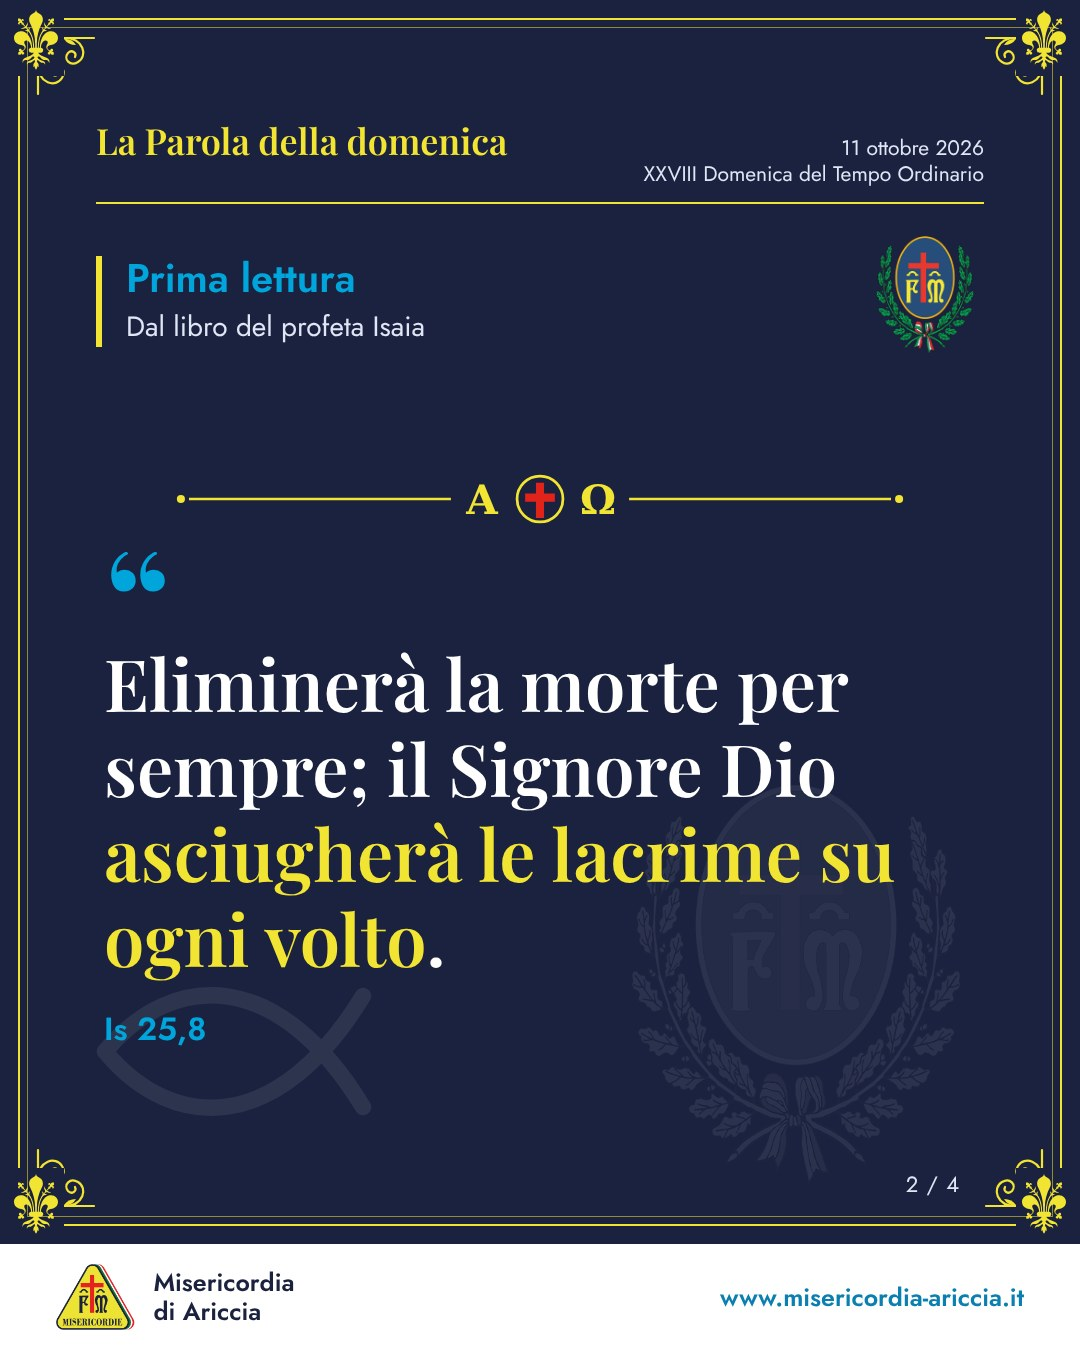
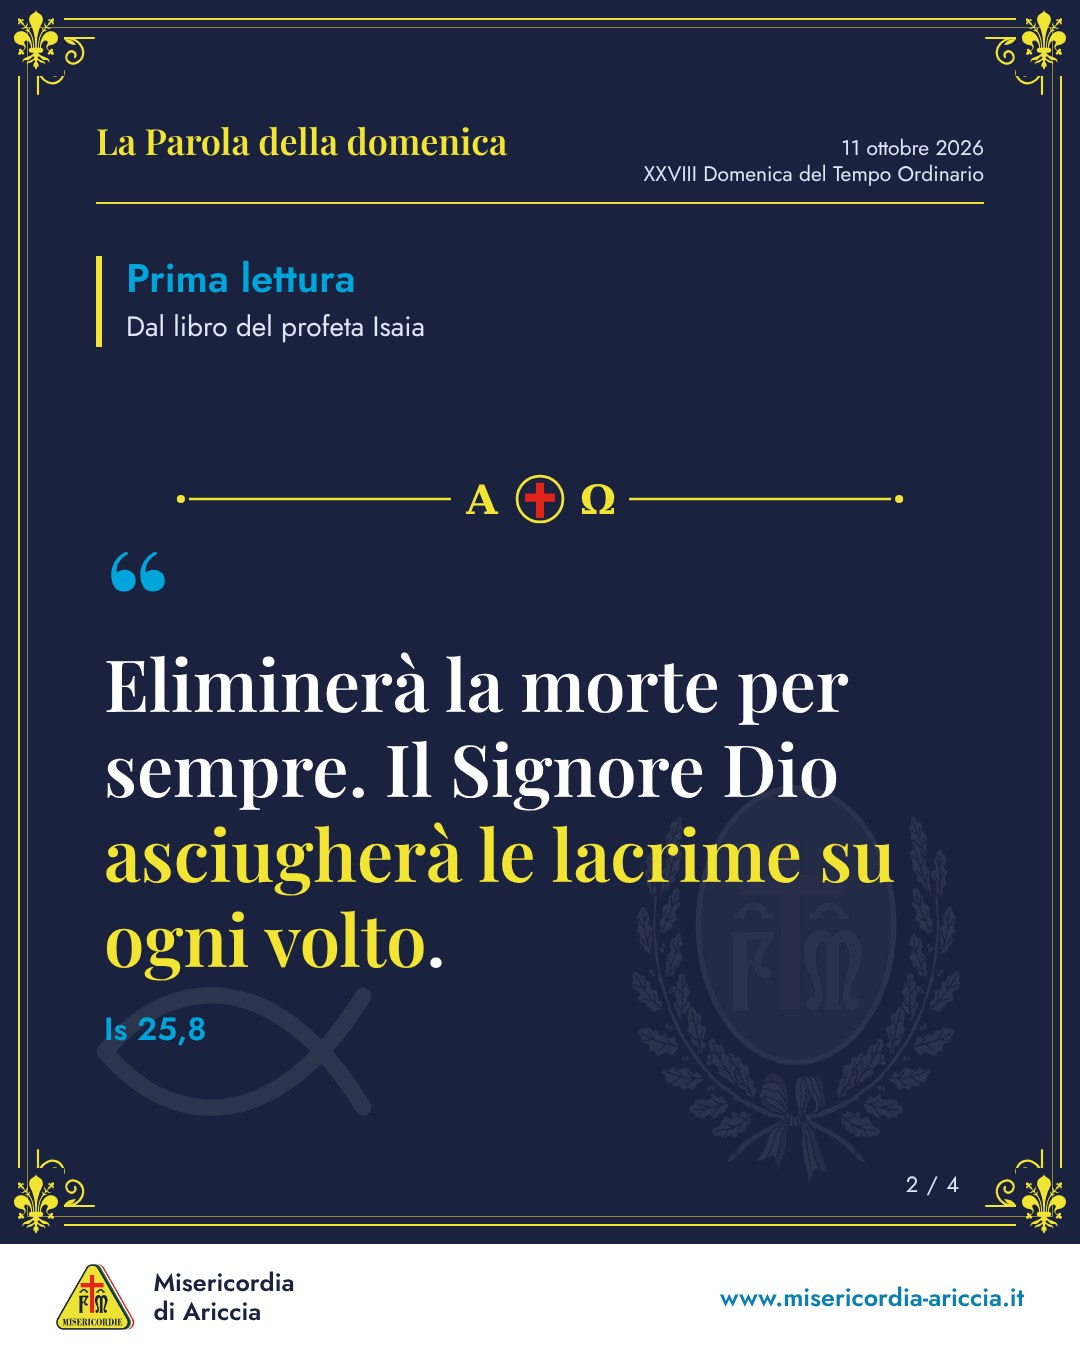
Parola della domenica: testo CEI 2008, rimando alla Liturgia del giorno, via lo stemma doppio
- letture.py prende il testo CEI 2008 (chiesacattolica.it), quello letto a
  Messa; Evangelizo (CEI 1974) solo per contare i versetti o come riserva
- Is 25,8 corretto sul testo CEI 2008
- ultima pagina e testo del post rimandano alle letture sul nostro sito
- tolto lo stemma piccolo accanto alla lettura (resta in filigrana)

Claude-Session: https://claude.ai/code/session_01XkVF3vbwttP8HoAxNwucGA

Changed region(s): [[0.7944, 0.1556, 0.9167, 0.28], [0.3667, 0.5289, 0.6417, 0.5911], [0.6722, 0.56, 0.7944, 0.5911]]

diff --git a/scripts/parola-domenica/grafica.html b/scripts/parola-domenica/grafica.html
@@ -25,9 +25,11 @@ body{width:1080px;height:1350px;background:var(--navy);color:#fff;font-family:Jo
 .illustra b{color:var(--ciano);font-weight:600}
 .credito{margin-top:8px;font-size:19px;color:#b9c3dc;line-height:1.35}
 .credito i{font-style:italic}
+.rimando{position:absolute;left:132px;right:200px;bottom:52px;font-size:24px;line-height:1.3;color:var(--giallo)}
+.rimando b{font-weight:600}
 .scorri{position:absolute;left:120px;bottom:40px;font-size:25px;font-weight:600;color:var(--giallo)}
 /* pagina del versetto */
-.lettura{margin-top:52px;margin-right:150px;border-left:6px solid var(--giallo);padding-left:24px}
+.lettura{margin-top:52px;border-left:6px solid var(--giallo);padding-left:24px}
 .lettura .nome{font-size:40px;font-weight:600;color:var(--ciano);line-height:1.1}
 .lettura .libro{margin-top:6px;font-size:28px;color:var(--chiaro)}
 .parola{position:absolute;left:104px;right:104px;top:400px;bottom:120px;display:flex;flex-direction:column;justify-content:center}
@@ -115,7 +117,6 @@ body{width:1080px;height:1350px;background:var(--navy);color:#fff;font-family:Jo
 <section class="pagina" id="pagina" hidden>
   <svg class="filigrana pesce-f"><use href="#pesce"/></svg>
   <img class="filigrana stemma-f" src="../../static/img/loghi/mise-fregio.png" alt="">
-  <img class="stemma" src="../../static/img/loghi/mise-fregio.png" alt="">
   <div class="testa"><div class="rubrica">La Parola della domenica</div><div class="giorno" id="p-giorno"></div></div>
   <div class="lettura"><div class="nome" id="p-nome"></div><div class="libro" id="p-libro"></div></div>
   <div class="parola">
@@ -124,6 +125,7 @@ body{width:1080px;height:1350px;background:var(--navy);color:#fff;font-family:Jo
     <div class="versetto" id="p-versetto"></div>
     <div class="rif" id="p-rif"></div>
   </div>
+  <div class="rimando" id="p-rimando" hidden>Tutte le letture di oggi sul nostro sito:<br><b>misericordia-ariccia.it/liturgia-del-giorno</b></div>
   <div class="numero" id="p-numero"></div>
 </section>
 <div class="piede">
@@ -145,7 +147,7 @@ const stringi = (box, el, minimo) => {  // il testo si rimpicciolisce finché st
 const sovrapposizioni = () => {
   const testi = [], grafica = [];
   const vis = el => el.offsetParent !== null || getComputedStyle(el).position === 'fixed';
-  document.querySelectorAll('.titolo,.sotto,.illustra,.credito,.scorri,.numero,.rubrica,.giorno,.lettura,.versetto,.rif,.sito,.marchio').forEach(el => {
+  document.querySelectorAll('.titolo,.sotto,.illustra,.credito,.scorri,.rimando,.numero,.rubrica,.giorno,.lettura,.versetto,.rif,.sito,.marchio').forEach(el => {
     if (!vis(el)) return;
     const w = document.createTreeWalker(el, NodeFilter.SHOW_TEXT);
     while (w.nextNode()) { if (!w.currentNode.textContent.trim()) continue;
@@ -190,6 +192,7 @@ window.versetto = async (s, i, n, primo) => {
   $('p-versetto').innerHTML = t;
   $('p-rif').textContent = v.riferimento;
   $('p-numero').textContent = `${primo + i} / ${n}`;
+  if (primo + i === n) $('p-rimando').hidden = false;  // ultima pagina: rimando alla Liturgia del giorno del sito
   await document.fonts.ready;
   const esito = stringi(document.querySelector('.parola'), $('p-versetto'), 40);
   return { ...esito, sovrapposizioni: sovrapposizioni() };

diff --git a/scripts/parola-domenica/letture.py b/scripts/parola-domenica/letture.py
@@ -1,12 +1,16 @@
 #!/usr/bin/env python3
-"""Scarica le letture di una domenica (o di un giorno) da Evangelizo, la stessa fonte
-della pagina Liturgia del giorno del sito.
+"""Scarica le letture di una domenica (o di un giorno).
+
+Testo da usare: CEI 2008, quello letto a Messa, dal sito ufficiale della CEI
+(chiesacattolica.it/liturgia-del-giorno). Evangelizo (la fonte della pagina Liturgia del
+giorno del sito) usa ancora la traduzione CEI 1974: serve solo per i numeri dei versetti
+e come riserva se la pagina CEI non risponde.
 
   letture.py                → prossima domenica
   letture.py 2026-10-11     → quel giorno
 
-Stampa un JSON: titolo liturgico e, per prima lettura, salmo, seconda lettura e Vangelo,
-il riferimento e le righe del testo. "versetto_stimato" numera le righe a partire dal
+Stampa un JSON: titolo liturgico; in "cei_2008" le letture col testo da copiare; in
+"letture" il testo Evangelizo riga per riga (una riga = un versetto). "versetto_stimato" numera le righe a partire dal
 primo versetto del riferimento: è solo un aiuto, il riferimento esatto va controllato.
 Solo libreria standard.
 """
@@ -18,6 +22,8 @@ import re
 import sys
 import urllib.request
 
+CEI = "https://www.chiesacattolica.it/liturgia-del-giorno/?data-liturgia={d}"
+SEZIONI_CEI = [("Prima Lettura", "Prima lettura"), ("Seconda Lettura", "Seconda lettura"), ("Vangelo", "Vangelo")]
 URL = "https://feed.evangelizo.org/v2/reader.php?date={d}&lang=IT&type={t}"
 LETTURE = {"FR": "Prima lettura", "PS": "Salmo responsoriale", "SR": "Seconda lettura", "GSP": "Vangelo"}
 
@@ -47,6 +53,34 @@ def versetti(titolo):
     return numeri
 
 
+def letture_cei(d):
+    """Prima lettura, seconda lettura e Vangelo in CEI 2008: titoletto, formula d'annuncio
+    («Dal libro del profeta Isaìa»), riferimento e testo, fino a «Parola di Dio/del Signore»."""
+    pagina = leggi(CEI.format(d=d))
+    pagina = re.sub(r"<(script|style).*?</\1>", "", pagina, flags=re.S)
+    righe = [r.strip() for r in html.unescape(re.sub(r"<[^>]+>", "\n", pagina)).splitlines() if r.strip()]
+    esito, pos = [], 0
+    for titolo, nome in SEZIONI_CEI:
+        try:
+            i = righe.index(titolo, pos)
+        except ValueError:
+            continue
+        fine = next((j for j in range(i + 1, len(righe)) if righe[j].startswith(("Parola di Dio", "Parola del Signore"))), None)
+        if fine is None:
+            continue
+        blocco = righe[i + 1:fine]
+        k = next((j for j, r in enumerate(blocco) if r.startswith(("Dal ", "Dalla ", "Dagli ", "Dai "))), None)
+        if k is None or k + 1 >= len(blocco):
+            continue
+        rif, resto = blocco[k + 1], blocco[k + 2:]
+        while resto and re.fullmatch(r"[\d.,\-a-z ]+", resto[0]):  # riferimenti spezzati su più righe («.», «19-20»)
+            rif += resto.pop(0)
+        esito.append({"lettura": nome, "titoletto": " ".join(blocco[:k]), "fonte_lettura": blocco[k],
+                      "riferimento": rif, "testo": " ".join(resto)})
+        pos = fine
+    return esito
+
+
 def main():
     if len(sys.argv) > 1:
         giorno = dt.date.fromisoformat(sys.argv[1])
@@ -67,6 +101,14 @@ def main():
             "righe": [{"versetto_stimato": numeri[i] if i < len(numeri) else "", "testo": r}
                       for i, r in enumerate(righe)],
         })
+    try:
+        esito["cei_2008"] = letture_cei(d)
+    except Exception as e:  # noqa: BLE001
+        esito["cei_2008"] = []
+        print(f"ATTENZIONE: pagina CEI non raggiungibile ({e}): usare il testo Evangelizo e scriverlo nella scheda",
+              file=sys.stderr)
+    if not esito["cei_2008"]:
+        print("ATTENZIONE: testo CEI 2008 non trovato", file=sys.stderr)
     print(json.dumps(esito, ensure_ascii=False, indent=1))
 
 

diff --git a/scripts/pubblica_social.py b/scripts/pubblica_social.py
@@ -359,10 +359,10 @@ def testo_parola(s, rete):
         righe.append(f"🎨 In copertina: {o['autore']}, {o['titolo']}" + (f" ({o['anno']})" if o.get("anno") else "")
                      + (f", {o['luogo']}" if o.get("luogo") else "") + f" · illustra {o['illustra']} · pubblico dominio")
     if rete == "instagram":
-        righe.append("Le letture complete su misericordia-ariccia.it/liturgia-del-giorno")
+        righe.append("📖 Tutte le letture della domenica sul nostro sito: misericordia-ariccia.it/liturgia-del-giorno")
         righe.append(HASHTAG_PAROLA)
         return "\n\n".join(righe)[:2200]
-    righe.append(f"👉 Le letture complete: {LITURGIA}")
+    righe.append(f"📖 Leggi tutte le letture della domenica sul nostro sito:\n👉 {LITURGIA}")
     return "\n\n".join(righe)
 
 

diff --git a/docs/parola-della-domenica.md b/docs/parola-della-domenica.md
@@ -4,7 +4,8 @@ Ogni domenica alle **7:47** esce su Facebook (album) e Instagram (carosello) un
 **carosello**: in copertina **una sola opera d'arte, intera**, con scritto quale lettura
 illustra; poi **una pagina per ogni versetto** scelto tra prima lettura, seconda lettura e
 Vangelo, ognuna con il nome della lettura ben visibile. Sul sito non c'è una pagina: il
-post rimanda alla [Liturgia del giorno](https://www.misericordia-ariccia.it/liturgia-del-giorno/).
+post e l'ultima pagina del carosello rimandano a leggere le letture complete sulla
+[Liturgia del giorno](https://www.misericordia-ariccia.it/liturgia-del-giorno/) del nostro sito.
 
 Indicazioni di Alessandro (9/10/2026): i versetti sono **quelli più belli e significativi**,
 non per forza uno per lettura; l'opera va mostrata **per intero** (mai un dettaglio) e deve
@@ -14,7 +15,7 @@ essere chiaro **a quale lettura si riferisce**; basta **una sola opera**.
 |---|---|
 | Scheda della domenica | `.github/social/parola/AAAA-MM-GG.json` |
 | Pagine del carosello (online col deploy) | `static/img/parola/AAAA-MM-GG-1.jpg`, `-2.jpg`… |
-| Grafica | cornice dorata doppia con il giglio di Firenze nei quattro angoli e volute, filetto con alfa e omega ai lati della croce dello stemma FM, stemma storico (`static/img/loghi/mise-fregio.png`) come sigillo in copertina e accanto al nome della lettura; nelle pagine dei versetti, in filigrana trasparentissima dietro il testo, lo stemma e il **pesce** (ichthys); il **giglio di Firenze** (dove nacque la prima Misericordia) solo negli angoli. Le filigrane possono stare dietro le scritte purché si leggano (decisione di Alessandro); per tutto il resto **mai scritte sopra la grafica**: `rendi.js` lo controlla da solo |
+| Grafica | cornice dorata doppia con il giglio di Firenze nei quattro angoli e volute, filetto con alfa e omega ai lati della croce dello stemma FM, stemma storico (`static/img/loghi/mise-fregio.png`) come sigillo in copertina; nelle pagine dei versetti, in filigrana trasparentissima dietro il testo, lo stemma e il **pesce** (ichthys); il **giglio di Firenze** (dove nacque la prima Misericordia) solo negli angoli. Le filigrane possono stare dietro le scritte purché si leggano (decisione di Alessandro); per tutto il resto **mai scritte sopra la grafica**: `rendi.js` lo controlla da solo |
 | Strumenti | `scripts/parola-domenica/` (`letture.py`, `opera.py`, `grafica.html`, `rendi.js`) |
 | Pubblicazione | workflow «Parola della domenica (social)» → `pubblica_social.py --parola` |
 | Registro dei post | `.github/social/pubblicati.json`, chiave `parola-AAAA-MM-GG` |
@@ -30,8 +31,14 @@ Si prepara **la domenica successiva**. Se la scheda c'è già, non si fa nulla.
    prima lettura, seconda lettura e Vangelo (il Salmo no). Non serve uno per lettura.
    - Frasi che si capiscono **da sole**: da 6 a 35 parole circa; mai una minaccia o una
      condanna presa isolata.
-   - Testo copiato **esatto** dal feed (traduzione CEI), togliendo solo le virgolette del
-     discorso diretto; se la frase comincia a metà versetto si mette la maiuscola.
+   - Testo copiato **esatto** da `cei_2008` (traduzione CEI 2008, quella letta a Messa, dal
+     sito ufficiale chiesacattolica.it), togliendo solo le virgolette del discorso diretto; se
+     la frase comincia a metà versetto si mette la maiuscola. **Non** copiare dal testo
+     Evangelizo (`letture`): è la vecchia CEI 1974 e a volte è diverso (es. «macellati» invece di
+     «uccisi»); serve solo per contare i versetti. Se la pagina CEI non risponde si usa
+     Evangelizo e si scrive `"traduzione": "CEI 1974 (Evangelizo)"` nella scheda.
+   - `fonte_lettura`: la formula di `cei_2008` senza gli accenti di lettura (Isaìa → Isaia,
+     Filippési → Filippesi).
    - Ordine: quello della Messa (prima lettura, seconda, Vangelo).
    - `evidenza`: 2-6 parole del versetto, copiate identiche, che vanno in giallo.
 3. **Opera d'arte** (una sola, facoltativa), di solito sul **Vangelo**:
@@ -53,7 +60,7 @@ Si prepara **la domenica successiva**. Se la scheda c'è già, non si fa nulla.
    frasi fatte o fatti inventati. Chiudere con «Buona domenica!». Versetti, crediti
    dell'opera, link e hashtag li aggiunge lo script.
 5. **Scheda** `.github/social/parola/AAAA-MM-GG.json` (modello: quella del 2026-10-11):
-   - `data`, `giorno_liturgico` (dal feed), `testo_social`, `preparata_da`;
+   - `data`, `giorno_liturgico` (dal feed), `testo_social`, `traduzione` («CEI 2008 (chiesacattolica.it)»), `preparata_da`;
    - `opera`: `autore`, `titolo` (in italiano), `anno`, `luogo` (museo), `licenza`, `fonte`
      (pagina Commons), `illustra` (es. «Vangelo, Mt 22,1-14»), `scena` (una frase su cosa
      si vede, legata al brano);
